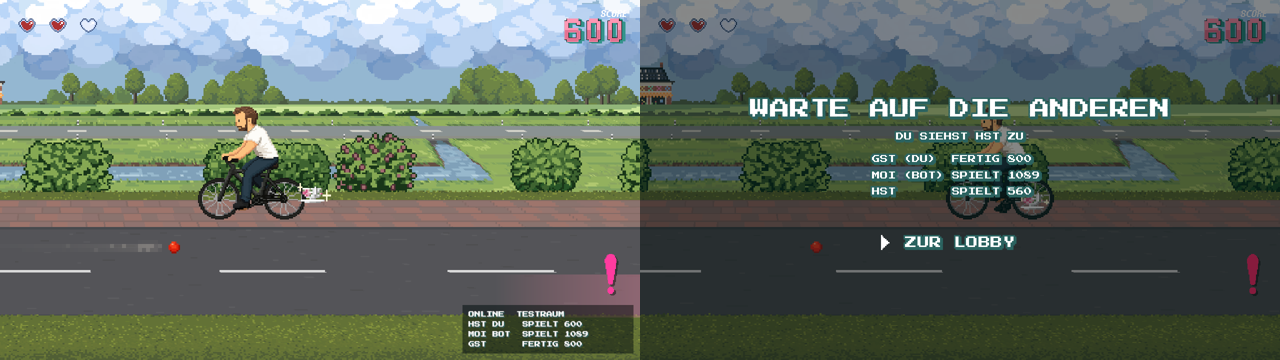
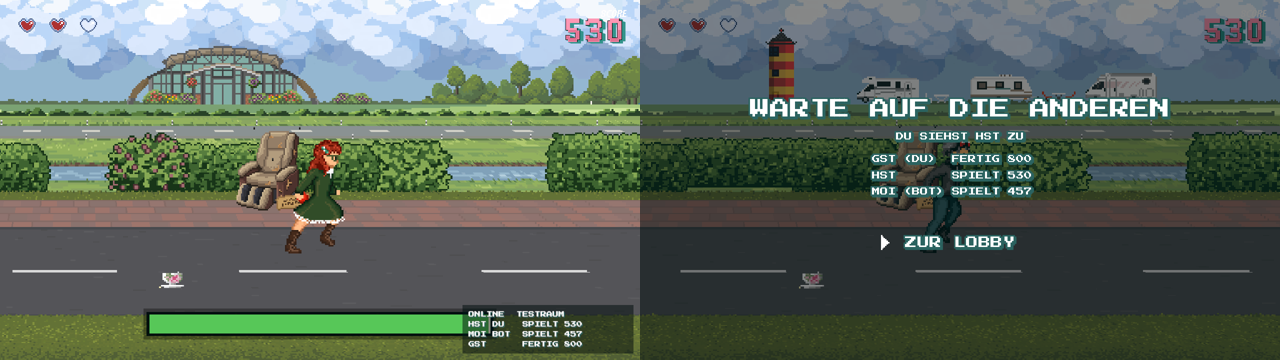
Watching: no input prompts for watchers
Prompts like "Drück so schnell Du kannst!", key caps and the Bosseln throw
power bar only confuse someone who cannot press anything: what the game
marks as a HUD hint, the Bosseln throw display and the game's own screen
texts are neither streamed nor shown to watchers. Score and hearts stay.

Claude-Session: https://claude.ai/code/session_01TwT8QwETfUhfyACGaoyvve

diff --git a/src/OGMultiplayer.Plugin/SceneMirror.cs b/src/OGMultiplayer.Plugin/SceneMirror.cs
@@ -42,11 +42,62 @@ namespace OGMultiplayer.Plugin
         /// <summary>The discipline's scene, as the game itself names it.</summary>
         public static string SceneFor(DisciplineId discipline) => GameBridge.GameScene(discipline);
 
-        /// <summary>Menus on top of the game are local (pause menu and its pages).</summary>
+        /// <summary>Menus on top of the game are local (pause menu and its pages), and so are input prompts.</summary>
         public static bool Excluded(Transform t)
         {
             return t.GetComponent<PauseMenuView>() != null || t.GetComponent<IngameSettingsOverlay>() != null
-                || t.GetComponent<HowToPlayPauseOverlay>() != null;
+                || t.GetComponent<HowToPlayPauseOverlay>() != null || IsPrompt(t);
+        }
+
+        private static readonly HashSet<int> promptRoots = new HashSet<int>();
+        private static int promptScene = -1;
+
+        /// <summary>
+        /// Input prompts make no sense for someone who only watches ("press as fast as you
+        /// can", key caps, the throw power bar): what the game itself marks as a HUD hint, the
+        /// Bosseln throw display, and the game's own screen texts. Score and hearts stay.
+        /// </summary>
+        public static bool IsPrompt(Transform t)
+        {
+            int handle = t.gameObject.scene.handle;
+            if (handle != promptScene)
+            {
+                promptScene = handle;
+                promptRoots.Clear();
+                foreach (BosselnWurfStakkato stakkato in UnityEngine.Object.FindObjectsByType<BosselnWurfStakkato>(FindObjectsInactive.Include, FindObjectsSortMode.None))
+                {
+                    if (stakkato.anzeigeRoot != null)
+                    {
+                        promptRoots.Add(stakkato.anzeigeRoot.GetInstanceID());
+                    }
+                }
+            }
+            if (promptRoots.Contains(t.GetInstanceID()) || t.GetComponent<IngameHudHint>() != null)
+            {
+                return true;
+            }
+            if (t.GetComponent<Text>() == null)
+            {
+                return false;
+            }
+            Canvas canvas = t.GetComponentInParent<Canvas>();
+            return canvas != null && canvas.renderMode != RenderMode.WorldSpace;
+        }
+
+        /// <summary>Hides the watcher's own prompts (they are never streamed).</summary>
+        public static void HidePrompts(Scene scene)
+        {
+            promptScene = -1;
+            foreach (GameObject root in scene.GetRootGameObjects())
+            {
+                foreach (Transform t in root.GetComponentsInChildren<Transform>(true))
+                {
+                    if (IsPrompt(t))
+                    {
+                        t.gameObject.SetActive(false);
+                    }
+                }
+            }
         }
 
         /// <summary>Visits every transform of the scene with its path (name#n per level, n counts equal names).</summary>
@@ -734,6 +785,7 @@ namespace OGMultiplayer.Plugin
             }
             scene = loaded;
             Freeze(scene);
+            Mirror.HidePrompts(scene);
             paths.Clear();
             Mirror.Walk(scene, (t, path) => paths[path] = t);
             ready = true;

diff --git a/Developer.md b/Developer.md
@@ -246,8 +246,11 @@ der Beobachtete fertig ist oder jemand 5 s lang 15 % vorne liegt). Statt Video o
 Eingaben wird der **Szenenzustand** übertragen (`SceneMirror.cs`):
 
 - Beide Seiten laden dieselbe Disziplin-Szene. Objekte werden über ihren Hierarchiepfad
-  (`/Name#n/Kind#n`, `n` zählt gleichnamige Geschwister) zugeordnet; Pausemenü und seine
-  Seiten sind ausgenommen.
+  (`/Name#n/Kind#n`, `n` zählt gleichnamige Geschwister) zugeordnet. Ausgenommen sind
+  Pausemenü und seine Seiten sowie Eingabe-Hinweise, die für Zuschauer nur verwirrend wären
+  (`Mirror.IsPrompt`: vom Spiel als `IngameHudHint` markiert, Bosseln-Wurfanzeige mit
+  Kraftbalken, Bildschirm-Texte des Spiels); der Zuschauer blendet seine eigenen aus.
+  Punkte und Herzen bleiben.
 - Der Spieler merkt sich zwei Frames nach dem Laden den Ausgangszustand und sendet bis zu 10×/s
   nur Abweichungen: lokale Position/Rotation/Skalierung, aktiv, Sprite/Farbe/Flip/enabled von
   `SpriteRenderer`/`Image`/`Text`, `sizeDelta`, Kamera-`orthographicSize`. Werte sind
